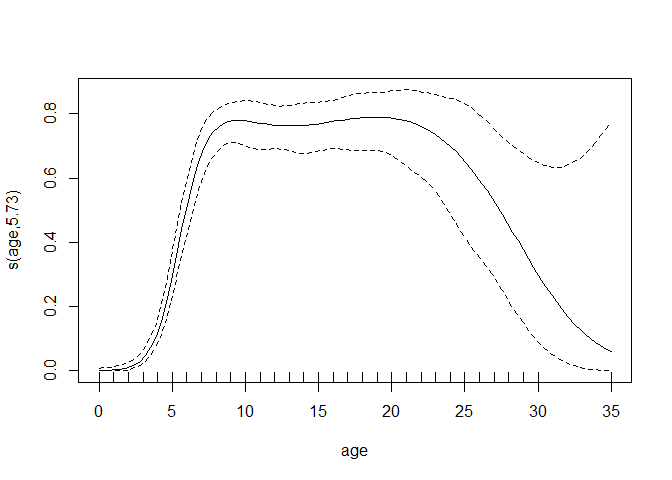
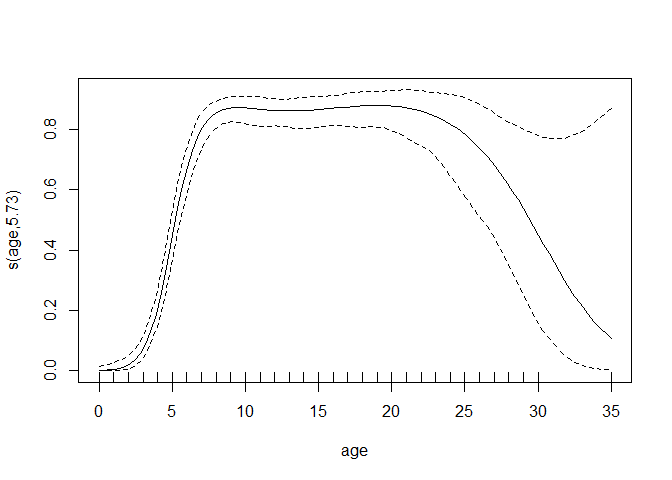
Added missing intercept to reproduction curve

diff --git a/README.md b/README.md
@@ -3,7 +3,7 @@ Baltic sea grey seal population
 ================
 
 This repository contains code and data for reproducing the results in
-Report X:2021, Department of Environmental Research and Monitoring,
+Report X:2022, Department of Environmental Research and Monitoring,
 Swedish Museum of Natural History.
 
 ## Data
@@ -117,7 +117,8 @@ setting ages 1-3 to zero.
 library(mgcv)
 repro_fit <- gam(reproduce ~ s(age, bs = "cs"), family = "binomial", 
                  data = filter(reproduction, source == "hunted"))
-plot(repro_fit, trans = function(x) exp(x)/(1 + exp(x)), xlim = c(0, 35))
+intercept <- repro_fit$coefficients["(Intercept)"]
+plot(repro_fit, trans = function(x) exp(x + intercept)/(1 + exp(x + intercept)), xlim = c(0, 35))
 ```
 
 ![](README_files/figure-gfm/unnamed-chunk-5-1.png)<!-- -->
@@ -176,8 +177,9 @@ If we now assume survival to equal the above value for all classes but
 the first (which we term juvenile survival) we may now estimate juvenile
 survival and stable age-structure as follows:
 
-First we parametrise a Leslie matrix as a function of juvenile survival
-based on adult survival and reproduction *b* estimated above:
+First we parametrise a Leslie matrix *L* as a function of juvenile
+survival *sJ* based on adult survival *sA* and reproduction *b*
+estimated above:
 
 ``` r
 L <- function(sJ){
@@ -201,8 +203,8 @@ sJ
 
 ``` r
 stable <- popbio::stable.stage(L(sJ))
-barplot(stable ~ age, main = "Stable age distribution, female grey seal", 
-        data = tibble(stable=stable, age = 0:45))
+barplot(proportion ~ age, main = "Stable age distribution, female grey seal", 
+        data = tibble(proportion=stable, age = 0:45))
 ```
 
 ![](README_files/figure-gfm/unnamed-chunk-9-1.png)<!-- -->
@@ -210,7 +212,7 @@ barplot(stable ~ age, main = "Stable age distribution, female grey seal",
 ### Age-summaries
 
 As input for the population model, we compile a range of age-related
-proportions. First age-structures among hunted
+proportions. First age-structures among hunted animals
 
 ``` r
 agedist_hunted <- ages %>% 
@@ -227,7 +229,9 @@ barplot(cbind(fi_hunted, se_hunted) ~ age, data = agedist_hunted, beside = TRUE,
 
 where we note that it is more common to shoot pups in Finland. Then we
 use the stable age distribution and age-structures of bycaught to
-compute the ratio needed for age-specific bycatch-probabilities
+compute the ratio needed for age-specific bycatch-probabilities, assumed
+constant over stages pup (age 0), subadult (age 1-4) and adult (older
+than 4)
 
 ``` r
 bycaught_ratio <- tibble(
